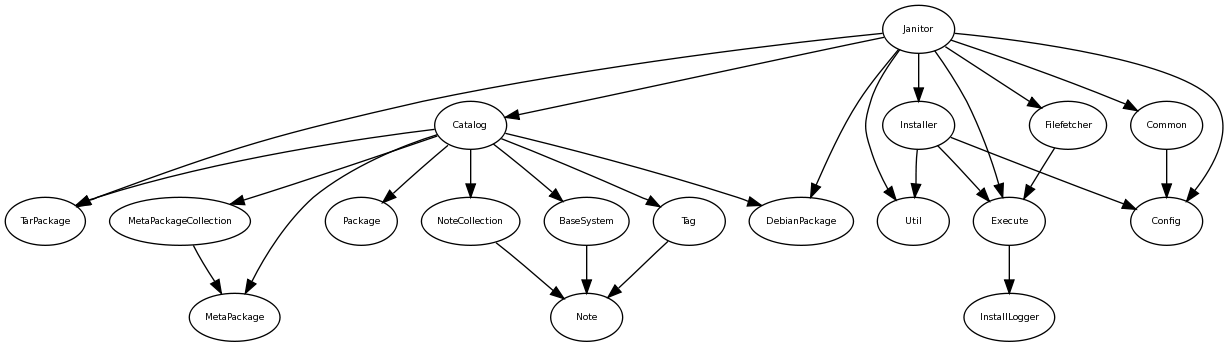
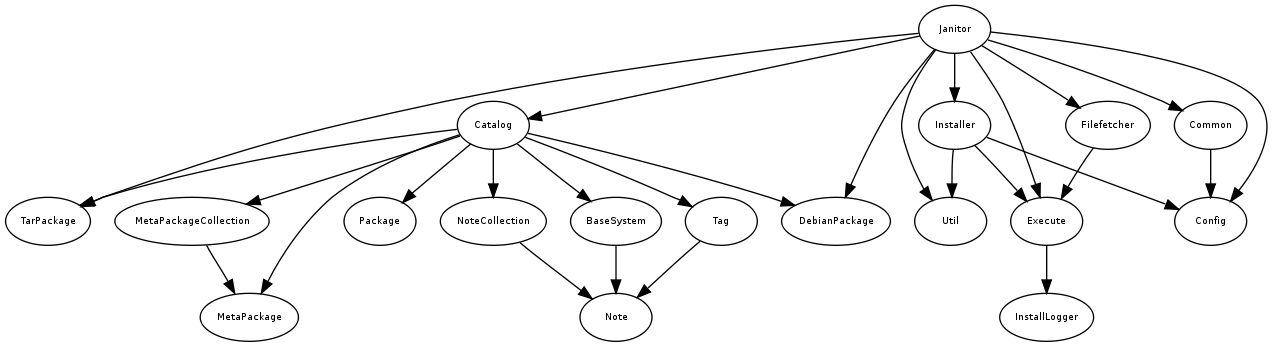
janitor.pdf builds again. Many thanks to Anders for spotting the issue.

diff --git a/doc/manuals/janitor/tex_installation/installation.tex b/doc/manuals/janitor/tex_installation/installation.tex
@@ -8,12 +8,13 @@
 
 
 The Janitor requires the two perl packages listed in
-table~\ref{tab:install_dependencies}. To have the WebService
+table~\ref{tab:installDependencies}. To have the WebService
 interface for the Janitor, the packages listed in
-table~\ref{tab:install_dependencies_optional}
+table~\ref{tab:installDependenciesOptional}
 need to be installed before
 the build process is. The Perl modules are available on CPAN and ship
 with all major Linux distributions.  
+
 \begin{table}[!h]
    \begin{center}
         \mycaption{Required perl packages for the Janitor.
@@ -21,7 +22,7 @@ with all major Linux distributions.
 		   Janitor, while the Redland RDF library is used
 		   for accessing the knowledge base (catalog) of
 		   Runtime Environments.}
-        \label{tab:install_dependencies}
+        \label{tab:installDependencies}
 	\begin{tabular}{|p{3cm}|p{7cm}|}
 	\hline
 	   liblog-log4perl-perl & \textit{Log4perl is a port of the log4j logging package}\\
@@ -36,7 +37,7 @@ with all major Linux distributions.
         \mycaption{Optional libraries for the Janitor.}{The
 		   library libperl-dev provides the required header files to link the 
                    WebService to the Perl interpreter.}
-        \label{tab:install_dependencies_optional}
+        \label{tab:installDependenciesOptional}
 	\begin{tabular}{|p{3cm}|p{7cm}|}
 	\hline
 	   libperl-dev & \textit{ Perl library: development files}\\
@@ -72,7 +73,7 @@ fairly easily without that tool, but one is unlikely to use the technology
 to its full potential, then.
 
 
-\section{Configuration}\label{sec:janitor_configuration}
+\section{Configuration}\label{sec:janitorConfiguration}
 
 The current version of the Janitor can be configured using the
 common file \textit{arc.conf}. It is expected in the configuration
@@ -80,14 +81,14 @@ directory \textit{etc}. The Janitor is using the environment
 variable \textit{NORDUGRID\_CONFIG} to determine the location of the
 corresponding file. If that variable is not set, the default location
 \textit{/etc/arc.conf} will be used.  The configuration is assigned
-by the section \lbrack janitor\rbrack. Table~\ref{tab:arc_conf_tags}
+by the section \lbrack janitor\rbrack. Table~\ref{tab:arcConfTags}
 describes the available tags for the Janitor's configuration.
 
 \begin{landscape}
 \begin{table}[!h]
    \begin{center}
         \mycaption{Tags usable in \textit{arc.conf} within the section janitor.}{Tags usable in \textit{arc.conf} within the section janitor.}
-	\label{tab:arc_conf_tags}
+	\label{tab:arcConfTags}
 	\begin{longtable}{|p{3cm}|p{10cm}||p{10cm}|}
 	\hline
 	   \textbf{tag}    & \textbf{example}                      & \textbf{description}\\
@@ -162,12 +163,12 @@ trust it.
 
 The path to the log4perl configuration file is defined by the tag
 \texttt{logconf}.  Examples on how to configure ARC and log4perl are
-provided in the Listings~\ref{lst:arc_conf} and ~\ref{lst:log_conf}.
+provided in the Listings~\ref{lst:arcConf} and ~\ref{lst:logConf}.
 
 
 \lstsetCONFIGURE
 \begin{lstlisting}[
-        label=lst:arc_conf,
+        label=lst:arcConf,
         caption={ [Example \textit{arc.conf} settings for janitor.]
                   \textbf{Example \textit{arc.conf} settings for janitor.}}
         ]
@@ -200,7 +201,7 @@ as separated with \[janitor/someName\] directives.
 
 \lstsetCONFIGURE
 \begin{lstlisting}[
-        label=lst:log_conf,
+        label=lst:logConf,
         caption={ [Example \textit{log.conf} settings for janitor.]
                   \textbf{Example \textit{log.conf} settings for janitor.}}
         ]

diff --git a/doc/manuals/janitor/tex_maintenance/maintenance.tex b/doc/manuals/janitor/tex_maintenance/maintenance.tex
@@ -57,7 +57,7 @@ the functionality that the MetaPackage references. The packages may
 be aiming for different versions of the operating system or be different
 in the way these are installed, but any package being assigned to the same
 MetaPackage needs to perform the same functionality.
-MetaPackages are described by the subclasses of \texttt{Note, which
+MetaPackages are described by the subclasses of \texttt{Note}, which
 in turn has two subclasses: \texttt{BaseSystem} and
 \texttt{Tag}.
 
@@ -294,8 +294,8 @@ Runtime Environment are available as dynamic Runtime Environments. Further
 packages for bioinformatics comprise dynamic variants of tools for
 the analysis of transcription factor binding sites. These are already
 offered for manual installation via the prior mentioned traditional page
-representing Runtime Environments for ARC.  The corresponding tar file
-is named \task{somewhat??}. The \texttt{data} directory simply contains
+representing Runtime Environments for ARC.
+The \texttt{data} directory simply contains
 a ZIP file which needs to be unzipped in the installation directory. For
 that reason, the \texttt{control/install} script is written as follows:
 

diff --git a/doc/manuals/janitor/tex_concept/concept.tex b/doc/manuals/janitor/tex_concept/concept.tex
@@ -30,8 +30,8 @@ other addresses the process of fetching and installing the packages.
  \vspace{4cm}
  \begin{center} 
  %\resizebox{24cm}{!}{\input{images/dependencies}}
- %\includegraphics[width=24cm]{images/dependencies.png}
- \includegraphics[width=24cm]{images/dependencies.pdf}
+ \includegraphics[width=24cm]{images/dependencies.png}
+ %\includegraphics[width=24cm]{images/dependencies.pdf}
  \mycaption{Modules of the Janitor and their dependencies}{}
  \end{center} 
  \vfill
